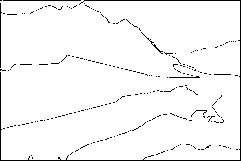
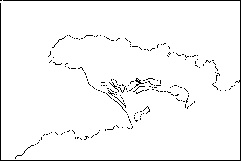
Final version

diff --git a/Project_3/src/utils/Visualizer.java b/Project_3/src/utils/Visualizer.java
@@ -13,21 +13,30 @@ import javax.imageio.ImageIO;
 
 public class Visualizer {
 
-    public static void visualizeSolution(SolutionRepresentation solution, int i) {
+    public static void visualizeSolution(SolutionRepresentation solution, int i, boolean frontier) {
         Image colorWithBorders = visualizeSegmentsColor(solution);
         Image blackWhiteWithBorders = visualizeSegmentsBlackWhite(solution);
         String path = "Project_3/Project 3 evaluator/Project 3 evaluator/student_segments/results/";
-        saveImage(blackWhiteWithBorders, "test_black_white_" + i, path);
-        path = "Project_3/Project 3 evaluator/Project 3 evaluator/student_segments/coloredResults/";
-        saveImage(colorWithBorders, "test_color_" + i, path);
+        if(!frontier){
+            path = "Project_3/Project 3 evaluator/Project 3 evaluator/student_segments/other/";
+            saveImage(blackWhiteWithBorders, "black_white_GA", path);
+            path = "Project_3/Project 3 evaluator/Project 3 evaluator/student_segments/other/";
+            saveImage(colorWithBorders, "color_", path);
+        }
+        else {
+            saveImage(blackWhiteWithBorders, "black_white_" + i, path);
+            path = "Project_3/Project 3 evaluator/Project 3 evaluator/student_segments/coloredResults/";
+            saveImage(colorWithBorders, "color_" + i, path);
+        }
+        
     }
 
-    public static void visualizeFrontier(List<SolutionRepresentation> solutions) {
+    public static void visualizeFrontier(List<SolutionRepresentation> solutions, boolean frontier) {
         int i = 0;
         DeleteFiles("Project_3/Project 3 evaluator/Project 3 evaluator/student_segments/results/");
         DeleteFiles("Project_3/Project 3 evaluator/Project 3 evaluator/student_segments/coloredResults/");
         for (SolutionRepresentation solution : solutions) {
-            visualizeSolution(solution, i);
+            visualizeSolution(solution, i, frontier);
             i++;
         };
     }

diff --git a/Project_3/src/NSGA2.java b/Project_3/src/NSGA2.java
@@ -106,7 +106,7 @@ public class NSGA2 {
 //                runGenerationTimed();
             }
         }
-        Visualizer.visualizeFrontier(this.population.subList(0, sizeOfBestFrontier));
+        Visualizer.visualizeFrontier(this.population.subList(0, sizeOfBestFrontier), this.useFrontier);
     }
 
     private void runGeneration() {
@@ -413,18 +413,12 @@ public class NSGA2 {
                     List<Pixel> partP1 = child1.getSolution().subList(prevPoint, point);
                     List<Pixel> partP2 = child2.getSolution().subList(prevPoint, point);
 
-                    //TODO change the connection instead of changin the pixels
                     for (int i = 0; i < partP1.size(); i++) {
                         PossibleConnections connectionP1 = partP1.get(i).connection;
                         PossibleConnections connectionP2 = partP2.get(i).connection;
                         partP1.get(i).setConnection(connectionP2);
                         partP2.get(i).setConnection(connectionP1);
                     }
-                    // child1.getSolution().removeAll(partP1);
-                    // child1.getSolution().addAll(prevPoint, partP2);
-
-                    // child2.getSolution().removeAll(partP2);
-                    // child2.getSolution().addAll(prevPoint, partP1);
 
                     prevPoint = point;
                 }

diff --git a/Project_3/src/MOOP.java b/Project_3/src/MOOP.java
@@ -17,7 +17,7 @@ public class MOOP {
         frame.setTitle("Image Display");
         frame.setDefaultCloseOperation(JFrame.EXIT_ON_CLOSE);
 
-        String imgPath = "Project_3/training_imgs/176035/Test image.jpg";
+        String imgPath = "Project_3/training_imgs/147091/Test image.jpg";
         // imgPath = "Project_3/training_imgs/ForTesting3x3White.jpg";
         // imgPath = "Project_3/training_imgs/ForTesting10x10White.jpg";
         BufferedImage imgBuff = ImageIO.read(new File(imgPath));
@@ -26,7 +26,7 @@ public class MOOP {
         System.out.println("\n");
         // img.show();
 
-        int generations = 3;
+        int generations = 5;
         int populationSize = 12;
         int amountOfSeconds = 360;
         boolean useTime = false;
@@ -38,7 +38,7 @@ public class MOOP {
         double probDistOfDifferentMutationTypes = 1;
         int amountOfParents = 4;
         boolean useSmartPopGeneration = true;
-        double colorDiffCutOutForGeneration = 70;
+        double colorDiffCutOutForGeneration = 100;
 
         boolean useFrontier = true;
         //
